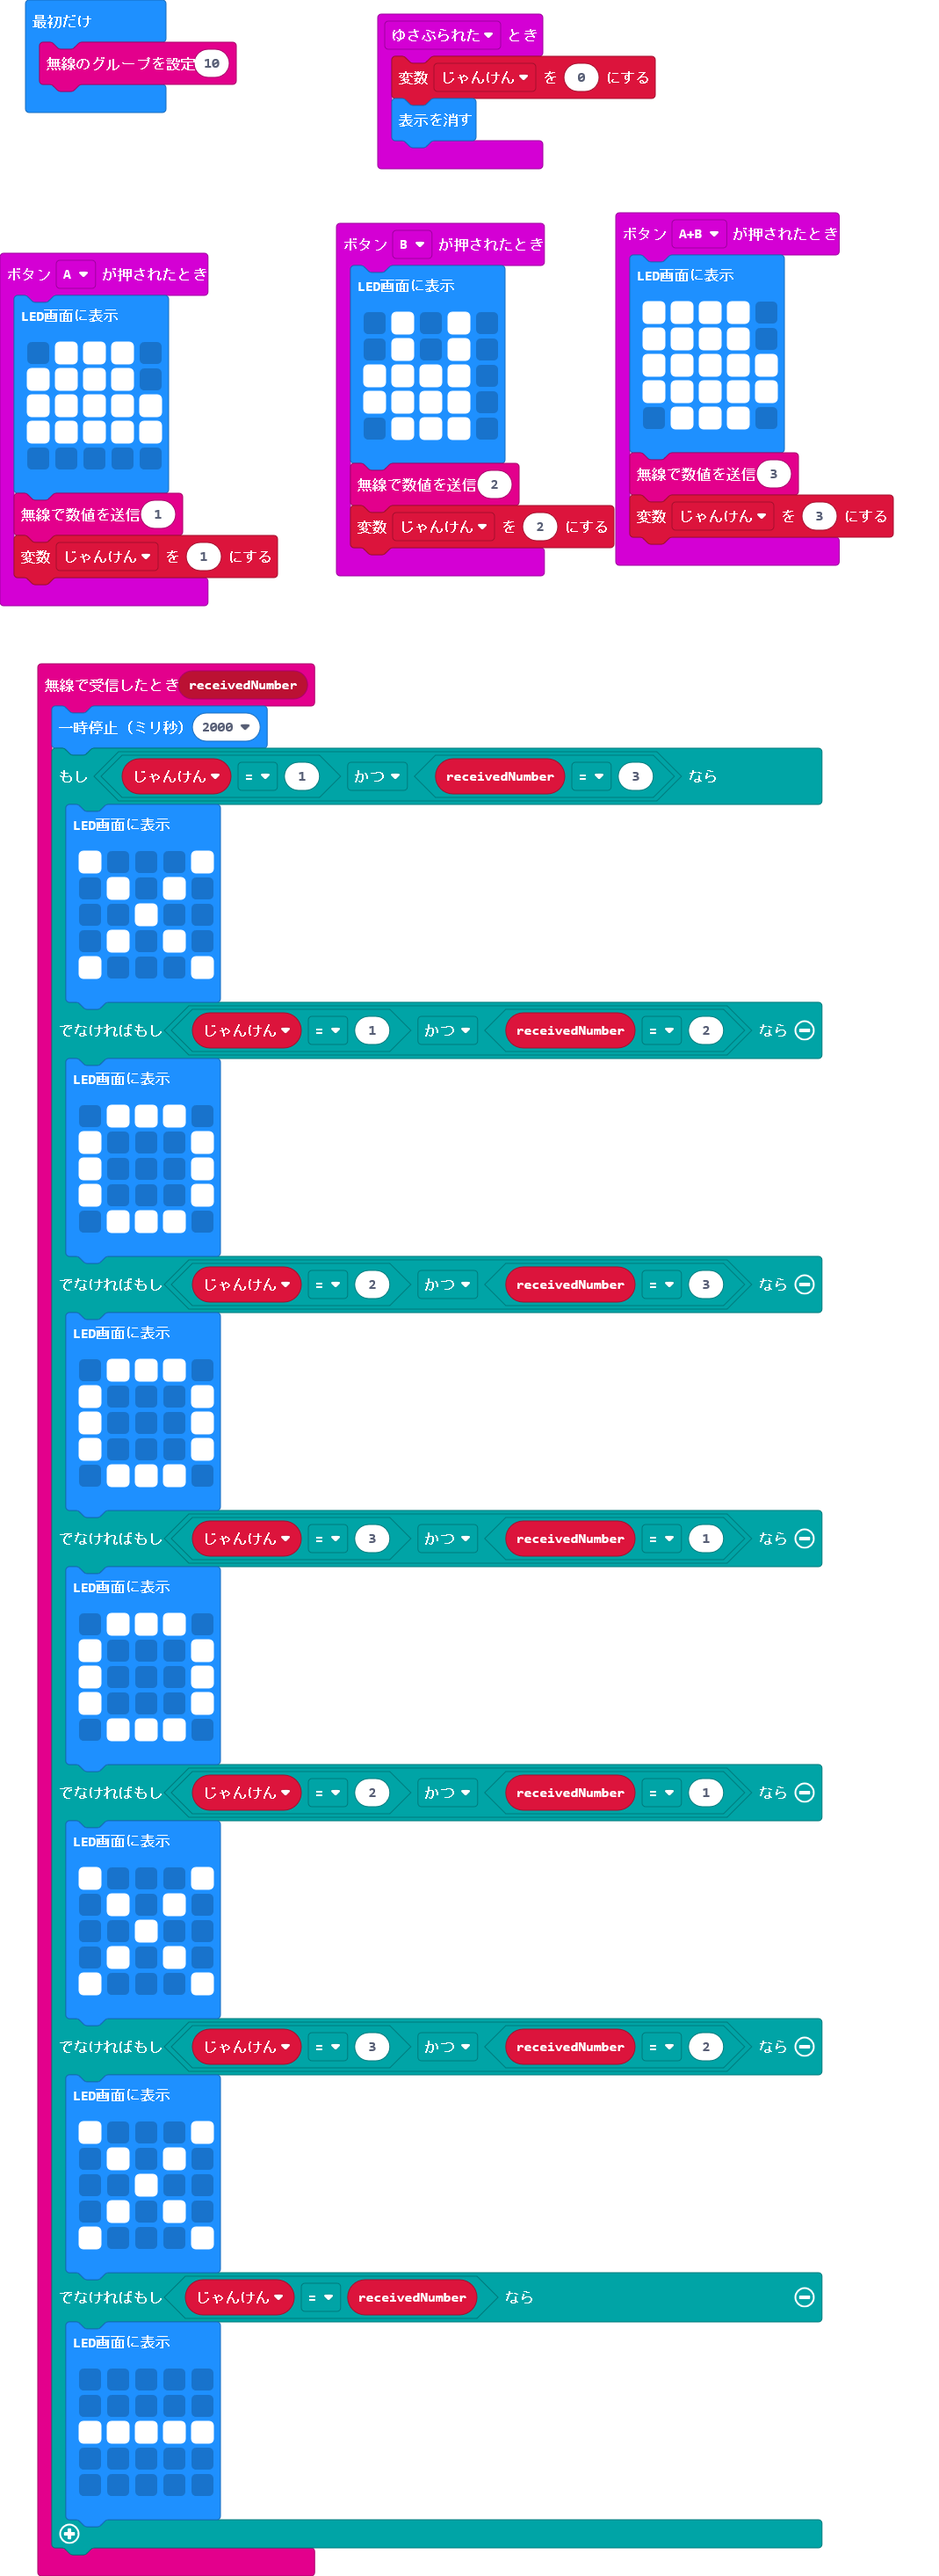
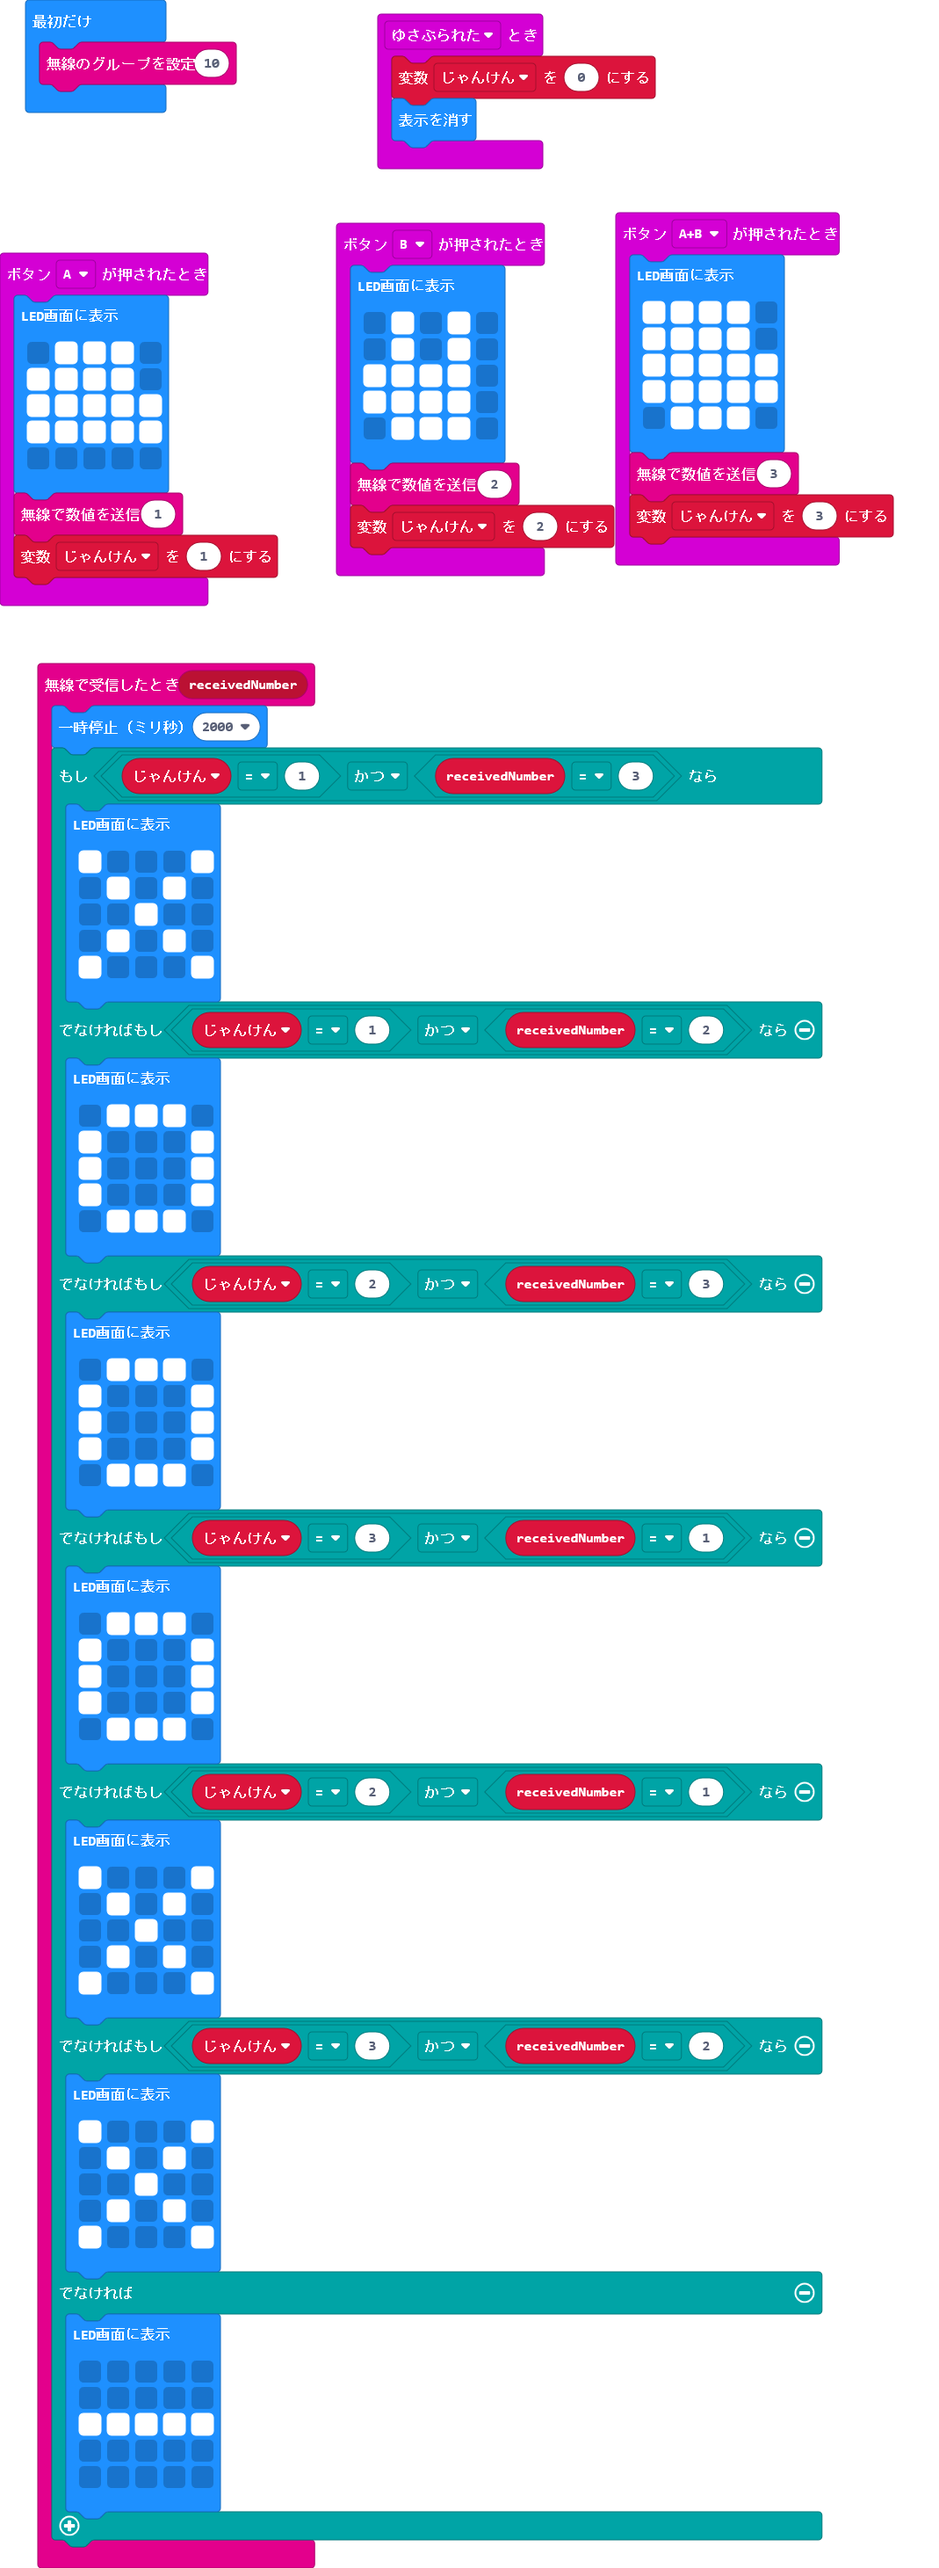
Update main.blocks, main.ts

diff --git a/main.ts b/main.ts
@@ -48,7 +48,7 @@ radio.onReceivedNumber(function (receivedNumber) {
             . # . # .
             # . . . #
             `)
-    } else if (じゃんけん == receivedNumber) {
+    } else {
         basic.showLeds(`
             . . . . .
             . . . . .
